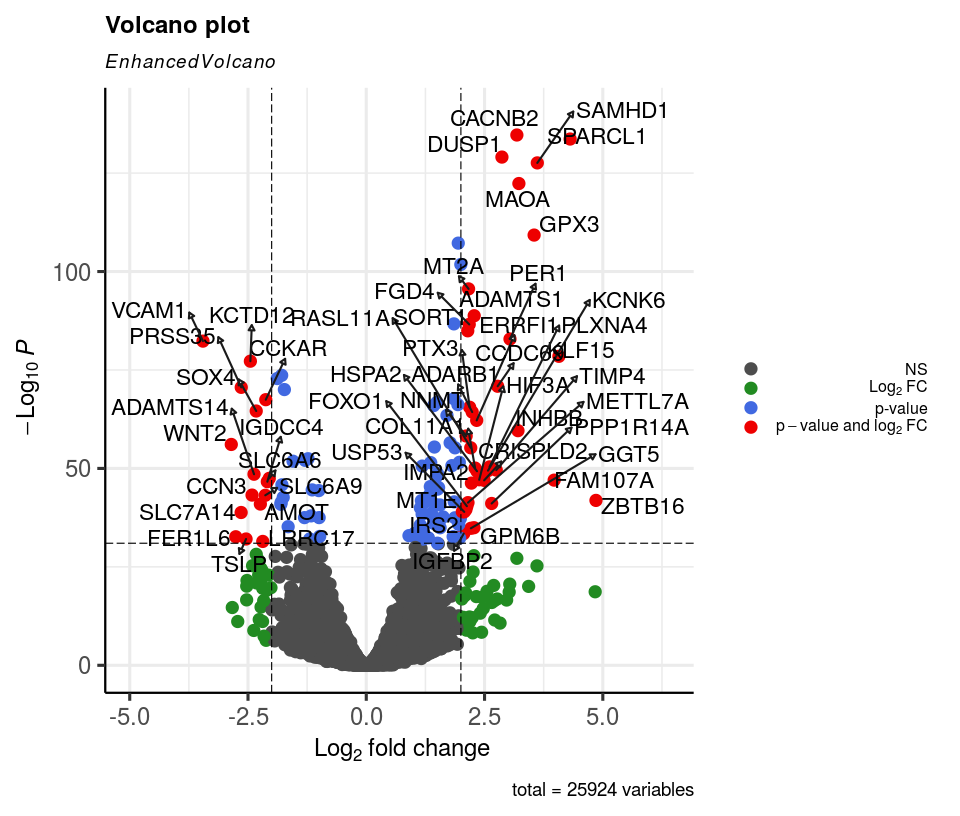
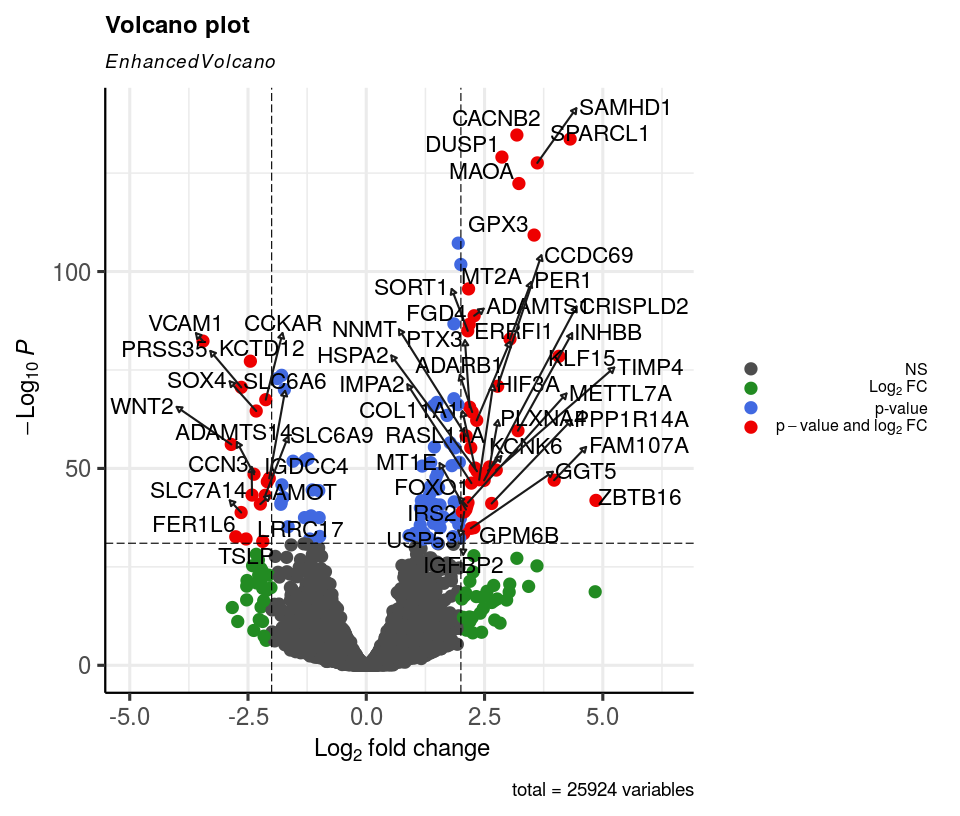
Bump version

Changed region(s): [[0.0938, 0.1225, 0.7188, 0.7047], [0.5625, 0.1225, 0.7188, 0.1838]]

diff --git a/README.md b/README.md
@@ -792,7 +792,7 @@ sessionInfo()
     ## [11] Biobase_2.48.0              GenomicRanges_1.40.0       
     ## [13] GenomeInfoDb_1.24.2         IRanges_2.22.2             
     ## [15] S4Vectors_0.26.1            BiocGenerics_0.34.0        
-    ## [17] EnhancedVolcano_1.7.18      ggrepel_0.8.2              
+    ## [17] EnhancedVolcano_1.9.1       ggrepel_0.8.2              
     ## [19] ggplot2_3.3.2               knitr_1.29                 
     ## 
     ## loaded via a namespace (and not attached):
